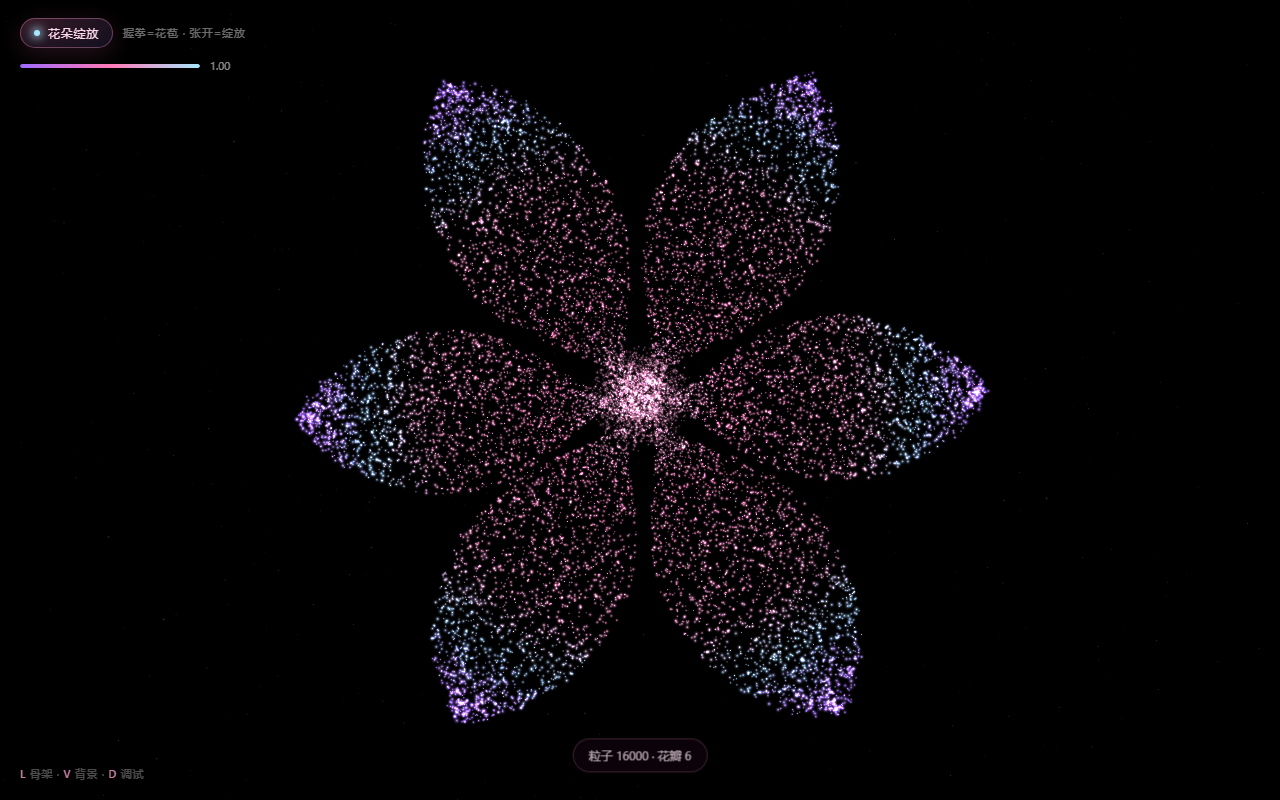
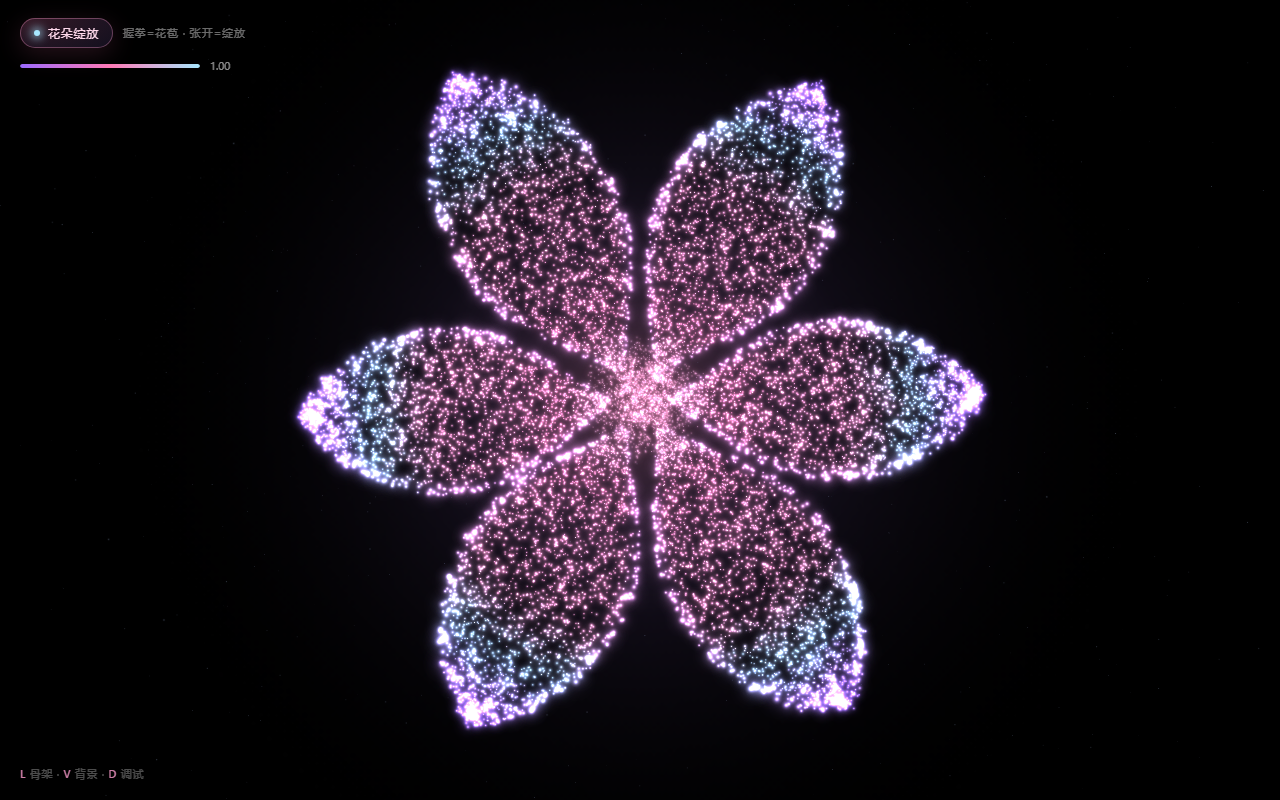
polish: 体积光晕层、花瓣边缘镭光轮廓、背景粉色辉光、缓慢摆动
- 第二层大尺寸淡粒子复用同一份几何与着色器，uAlphaMul=0.13 做体积光
- 新增 aEdge 属性，花瓣侧缘提亮并偏浅蓝→紫，勾出镭光轮廓
- 花蕊粒子 18%→12%、半径略放大，中心不再过曝成白盘
- 背景加极淡径向辉光贴图；花朵绕 Y 轴缓慢摆动

Changed region(s): [[0.2188, 0.0625, 0.7812, 0.9375], [0.4375, 0.9375, 0.5625, 0.9688]]

diff --git a/src/flower.js b/src/flower.js
@@ -45,10 +45,11 @@ export function createFlower({ count = 16000, petals = 6, radius = 1.95, seed = 
   const bud = new Float32Array(count * 3)
   const bloom = new Float32Array(count * 3)
   const rho = new Float32Array(count)
+  const edge = new Float32Array(count)
   const seeds = new Float32Array(count)
   const sizes = new Float32Array(count)
 
-  const stamenCount = Math.floor(count * 0.18) // 约 18% 粒子做花蕊
+  const stamenCount = Math.floor(count * 0.12) // 约 12% 粒子做花蕊（太多会把中心叠爆）
 
   // 每片花瓣的长度 / 角度略有差异，避免"完美对称的假花"
   const petalLen = Array.from({ length: petals }, () => 1 + (rand() - 0.5) * 0.12)
@@ -58,14 +59,15 @@ export function createFlower({ count = 16000, petals = 6, radius = 1.95, seed = 
     const i3 = i * 3
 
     let x, y, z, t, budX, budY, budZ
+    let edgeVal = 0
 
     if (i < stamenCount) {
       // ── 花蕊：中心的小圆盘 ───────────────────────────────
       const a = rand() * TAU
-      const rr = radius * 0.17 * Math.sqrt(rand()) * (0.35 + 0.65 * rand())
+      const rr = radius * 0.21 * Math.sqrt(rand()) * (0.35 + 0.65 * rand())
       x = Math.cos(a) * rr
       y = Math.sin(a) * rr
-      z = 0.20 + Math.cos((rr / (radius * 0.17)) * Math.PI * 0.5) * 0.13 + (rand() - 0.5) * 0.04
+      z = 0.20 + Math.cos((rr / (radius * 0.21)) * Math.PI * 0.5) * 0.13 + (rand() - 0.5) * 0.04
       t = 0.02 + rand() * 0.14
 
       budX = x * 0.22
@@ -90,6 +92,7 @@ export function createFlower({ count = 16000, petals = 6, radius = 1.95, seed = 
       z += 0.05
 
       t = clamp01(0.14 + 0.86 * u + (rand() - 0.5) * 0.06)
+      edgeVal = Math.abs(v)   // 花瓣侧缘 = 1，中线 = 0，用于勾发光轮廓
 
       // ── 花瓣：花苞形态（同一套 θ/u 参数，收进一个竖立的水滴）──
       // 轮廓：上下两端收敛、中段最宽 → 闭合的花苞，而不是张口的锥
@@ -113,6 +116,7 @@ export function createFlower({ count = 16000, petals = 6, radius = 1.95, seed = 
     bud[i3 + 2] = budZ
 
     rho[i] = t
+    edge[i] = edgeVal
     seeds[i] = rand()
     // 花心颗粒更小，避免中心叠成一团白；外缘略大，轮廓更柔和
     sizes[i] = (0.55 + rand() * 1.05) * (0.92 + 0.38 * t)
@@ -124,6 +128,7 @@ export function createFlower({ count = 16000, petals = 6, radius = 1.95, seed = 
   geometry.setAttribute('aBloom', new THREE.BufferAttribute(bloom, 3))
   geometry.setAttribute('aBud', new THREE.BufferAttribute(bud, 3))
   geometry.setAttribute('aRho', new THREE.BufferAttribute(rho, 1))
+  geometry.setAttribute('aEdge', new THREE.BufferAttribute(edge, 1))
   geometry.setAttribute('aSeed', new THREE.BufferAttribute(seeds, 1))
   geometry.setAttribute('aSize', new THREE.BufferAttribute(sizes, 1))
   geometry.boundingSphere = new THREE.Sphere(new THREE.Vector3(), radius * 1.6)
@@ -138,6 +143,7 @@ export function createFlower({ count = 16000, petals = 6, radius = 1.95, seed = 
       uPointScale: { value: 1 },
       uHand: { value: new THREE.Vector2(0, 0) },
       uHandActive: { value: 0 },
+      uAlphaMul: { value: 1 },
     },
     transparent: true,
     depthWrite: false,
@@ -147,7 +153,26 @@ export function createFlower({ count = 16000, petals = 6, radius = 1.95, seed = 
 
   const points = new THREE.Points(geometry, material)
   points.frustumCulled = false
-  return { points, material, geometry }
+
+  // 第二层光晕：复用同一份几何和着色器，只是点更大更淡 → 体积光感
+  // 共享 uTime / uSpread / uHand 等 uniform 对象，颜色与动画天然同步
+  const glowMaterial = new THREE.ShaderMaterial({
+    vertexShader: flowerVertexShader,
+    fragmentShader: flowerFragmentShader,
+    uniforms: {
+      ...material.uniforms,
+      uPointScale: { value: 1 },
+      uAlphaMul: { value: 0.13 },
+    },
+    transparent: true,
+    depthWrite: false,
+    depthTest: true,
+    blending: THREE.AdditiveBlending,
+  })
+  const glow = new THREE.Points(geometry, glowMaterial)
+  glow.frustumCulled = false
+
+  return { points, glow, material, glowMaterial, geometry }
 }
 
 /** 背景星尘 */

diff --git a/src/shaders.js b/src/shaders.js
@@ -13,17 +13,21 @@ uniform float uTime;
 uniform float uSpread;       // 0 = 花苞，1 = 完全绽放（已缓动）
 uniform float uPixelRatio;
 uniform float uPointScale;
+uniform float uAlphaMul;     // 光晕层用：同一套着色器，渲染成大而淡的第二层
 uniform vec2  uHand;         // 手部位置，约 -1..1
 uniform float uHandActive;   // 0 / 1
 
 attribute vec3 aBud;         // 花苞状态位置
 attribute vec3 aBloom;       // 绽放状态位置
 attribute float aRho;        // 0 = 花心 → 1 = 花瓣边缘
+attribute float aEdge;       // 0 = 花瓣中线 → 1 = 花瓣侧缘
 attribute float aSeed;       // 随机种子 0..1
 attribute float aSize;
 
 varying vec3  vColor;
 varying float vGlow;
+varying float vEdge;
+varying float vAlphaMul;
 
 vec3 palette(float rho) {
   vec3 pinkDeep   = vec3(1.000, 0.478, 0.714); // #FF7AB6
@@ -80,12 +84,19 @@ void main() {
 
   float depthScale = 320.0 / max(-mv.z, 0.001);
   // 花苞时粒子挤在小体积里 → 单颗压暗；绽放时铺开 → 提亮，整体亮度才稳定
-  gl_PointSize = aSize * uPointScale * uPixelRatio * depthScale * (0.72 + 0.45 * e);
+  float rim = smoothstep(0.78, 1.0, aEdge);
+  gl_PointSize = aSize * uPointScale * uPixelRatio * depthScale * (0.72 + 0.45 * e) * (1.0 + 0.55 * rim);
 
   vColor = palette(aRho);
-  // 花心粒子极密，按粒子压暗一点，靠叠加自然发光，避免糊成一团白
-  float centerDamp = mix(0.45, 1.0, smoothstep(0.02, 0.30, aRho));
-  vGlow = mix(0.55, 1.22, e) * (0.80 + 0.30 * aSeed) * centerDamp;
+  // 花瓣侧缘往浅蓝→紫偏一点，勾出发光的轮廓（最外圈偏紫，避免整圈发青）
+  vec3 rimColor = mix(vec3(0.655, 0.910, 1.000), vec3(0.702, 0.533, 1.000), smoothstep(0.45, 1.0, aEdge));
+  vColor = mix(vColor, rimColor, rim * 0.50);
+
+  // 花心粒子极密，按粒子大幅压暗，靠叠加自然发光，避免糊成一团白
+  float centerDamp = mix(0.28, 1.0, smoothstep(0.02, 0.34, aRho));
+  vGlow = mix(0.55, 1.22, e) * (0.80 + 0.30 * aSeed) * centerDamp * (1.0 + 0.40 * rim);
+  vEdge = aEdge;
+  vAlphaMul = uAlphaMul;
 }
 `
 
@@ -94,6 +105,8 @@ precision highp float;
 
 varying vec3  vColor;
 varying float vGlow;
+varying float vEdge;
+varying float vAlphaMul;
 
 void main() {
   // 圆形柔光点精灵
@@ -105,7 +118,7 @@ void main() {
   float halo = pow(1.0 - r, 0.85);      // 外圈光晕
 
   // 叠加混合很容易过曝：单颗粒子要克制，靠数量堆出光感
-  float alpha = (core * 0.66 + halo * 0.17) * vGlow;
+  float alpha = (core * 0.66 + halo * 0.17) * vGlow * vAlphaMul;
 
   vec3 col = vColor * (0.62 + 0.80 * core);
   gl_FragColor = vec4(col, alpha);

diff --git a/src/main.js b/src/main.js
@@ -58,12 +58,13 @@ camera.position.set(0, 0, 6.2)
 const flowerGroup = new THREE.Group()
 scene.add(flowerGroup)
 
-const { points: flower, material: flowerMat } = createFlower({
+const { points: flower, glow: flowerGlow, material: flowerMat, glowMaterial: flowerGlowMat } = createFlower({
   count: CONFIG.count,
   petals: CONFIG.petals,
   radius: CONFIG.radius,
   seed: CONFIG.seed,
 })
+flowerGroup.add(flowerGlow)
 flowerGroup.add(flower)
 
 // 背景星尘
@@ -79,6 +80,33 @@ const dustMat = new THREE.ShaderMaterial({
 const dust = new THREE.Points(dustData.geometry, dustMat)
 dust.frustumCulled = false
 scene.add(dust)
+
+// 背景极淡的粉色辉光，把"梦幻"托起来（纯贴图，几乎不耗性能）
+function radialTexture() {
+  const s = 256
+  const c = document.createElement('canvas')
+  c.width = c.height = s
+  const g = c.getContext('2d')
+  const grd = g.createRadialGradient(s / 2, s / 2, 0, s / 2, s / 2, s / 2)
+  grd.addColorStop(0, 'rgba(255,158,207,0.50)')
+  grd.addColorStop(0.42, 'rgba(179,136,255,0.14)')
+  grd.addColorStop(1, 'rgba(0,0,0,0)')
+  g.fillStyle = grd
+  g.fillRect(0, 0, s, s)
+  const tex = new THREE.CanvasTexture(c)
+  tex.colorSpace = THREE.SRGBColorSpace
+  return tex
+}
+const aura = new THREE.Sprite(new THREE.SpriteMaterial({
+  map: radialTexture(),
+  blending: THREE.AdditiveBlending,
+  depthWrite: false,
+  transparent: true,
+  opacity: 0.6,
+}))
+aura.scale.set(9.5, 9.5, 1)
+aura.position.set(0, 0, -2.6)
+scene.add(aura)
 
 /* ── 状态 ──────────────────────────────────────────────────── */
 const state = {
@@ -118,6 +146,7 @@ function resize() {
   flowerMat.uniforms.uPixelRatio.value = dpr
   // 粒子屏幕尺寸随视口高度缩放，保持视觉比例一致
   flowerMat.uniforms.uPointScale.value = 0.062 * clamp(h / 900, 0.72, 1.45)
+  flowerGlowMat.uniforms.uPointScale.value = flowerMat.uniforms.uPointScale.value * 3.6
   dustMat.uniforms.uPixelRatio.value = dpr
 }
 window.addEventListener('resize', resize, { passive: true })
@@ -297,6 +326,7 @@ function animate() {
   flowerGroup.position.x += (state.hand.x * 0.45 * state.handActive - flowerGroup.position.x) * 0.04
   flowerGroup.position.y += (state.hand.y * 0.32 * state.handActive - flowerGroup.position.y) * 0.04
   flowerGroup.rotation.z = Math.sin(t * 0.13) * 0.05 + state.hand.x * 0.08 * state.handActive
+  flowerGroup.rotation.y = Math.sin(t * 0.09) * 0.18
   flowerGroup.rotation.x = -0.12 + Math.sin(t * 0.11) * 0.03
   flowerGroup.scale.setScalar(0.94 + state.spread * 0.08)
 
